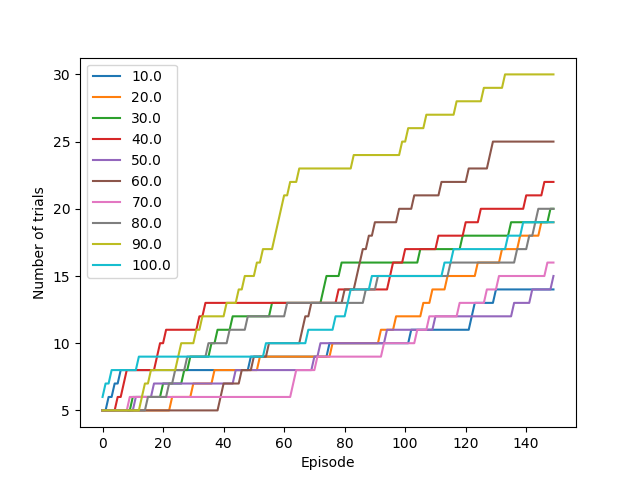
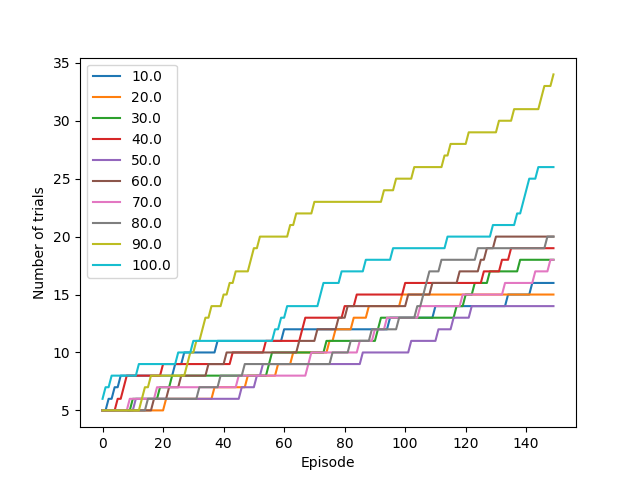
Using e_greedy_increment

diff --git a/main.py b/main.py
@@ -8,9 +8,9 @@ from Environments import LongHallway
 MIN_HALLWAY_LENGTH = 10
 MAX_HALLWAY_LENGTH = 100
 N_TASKS = 10
-BUFFER_SIZE = 5
+BUFFER_SIZE = 10
 MAX_EPISODE_LENGTH = 500
-N_TOTAL_EPISODES = 200
+N_TOTAL_EPISODES = 2000
 
 
 def run(env,agent,n_episodes):
@@ -124,7 +124,7 @@ def train_with_RL_ACL(agent):
     curr_agent = DeepQNetwork(n_actions=N_TASKS,
                       n_features=N_TASKS*BUFFER_SIZE,
                       str = 'meta_net',
-                      learning_rate=0.01, e_greedy=0.7,
+                      learning_rate=0.01, e_greedy=0.9, e_greedy_increment = 0.002,
                       replace_target_iter=5, memory_size=100)
     n_trials = np.zeros(N_TASKS)+BUFFER_SIZE
     rewards_buffer = init_rewards_buffer(agent)
@@ -160,7 +160,8 @@ def plot_data(data, y_label, str):
 def plot_n_trials(n_trials, y_label, str):
     plt.plot(np.array(n_trials))
     plt.xlabel('Episode')
-    plt.ylabel(y_label)
+    plt.ylabel(y_label)    
+    plt.title(str)
     plt.legend(tasks)
     plt.savefig('./'+str)
     plt.show()
